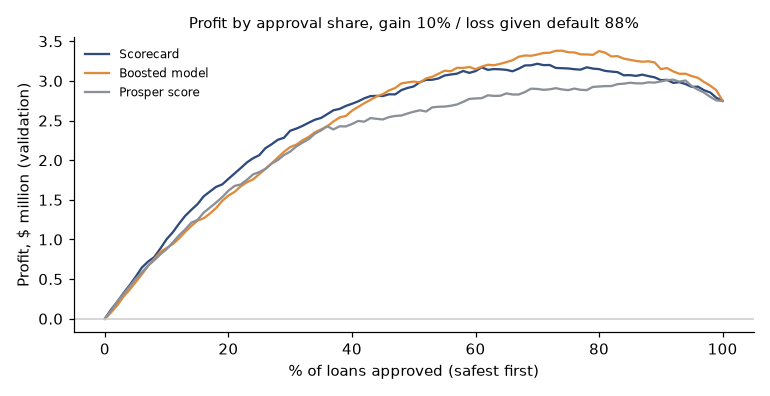
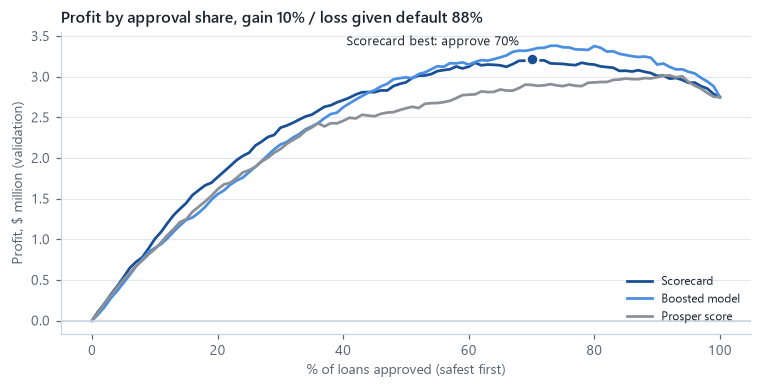
Blue theme for the site; refresh project figures

Changed region(s): [[0.0302, 0.0309, 0.9961, 0.9897], [0.0, 0.0619, 0.2717, 0.7423]]

diff --git a/style.css b/style.css
@@ -1,25 +1,39 @@
+/* Blue theme. Same palette as the charts: deep blue = main, mid blue = secondary, orange = "what I caught". */
 :root {
-  --bg: #faf8f4;
+  --bg: #f4f7fc;
   --surface: #ffffff;
-  --ink: #1c2430;
-  --muted: #5b6573;
-  --line: #e4dfd5;
-  --accent: #0f5c5c;
-  --accent-soft: #e3f0ee;
-  --warn: #8a4b12;
-  --warn-soft: #fbefe0;
+  --ink: #14213a;
+  --muted: #55627a;
+  --line: #d9e2ef;
+  --accent: #184f95;
+  --accent-strong: #0d366b;
+  --accent-soft: #e6effb;
+  --warn: #9a4310;
+  --warn-soft: #fdeee6;
+  --hero-from: #0d366b;
+  --hero-to: #184f95;
+  --hero-ink: #ffffff;
+  --hero-muted: #cfe0f7;
+  --hero-eyebrow: #9ec5f4;
+  --shadow: 0 1px 2px rgba(13, 54, 107, 0.06), 0 4px 14px rgba(13, 54, 107, 0.05);
   --serif: Georgia, "Iowan Old Style", "Times New Roman", serif;
   --sans: system-ui, -apple-system, "Segoe UI", Roboto, "Helvetica Neue", Arial, sans-serif;
 }
 @media (prefers-color-scheme: dark) {
   :root:not([data-theme="light"]) {
-    --bg: #12161c; --surface: #1a2029; --ink: #e8ebf0; --muted: #a2adbb; --line: #2b3441;
-    --accent: #6fc4bd; --accent-soft: #17302f; --warn: #e8b27a; --warn-soft: #2d2216;
+    --bg: #0b1220; --surface: #121b2e; --ink: #e8eefa; --muted: #9fb0c9; --line: #243350;
+    --accent: #6da7ec; --accent-strong: #9ec5f4; --accent-soft: #14233d;
+    --warn: #f2a67b; --warn-soft: #2b1d14;
+    --hero-from: #081a36; --hero-to: #123f7a;
+    --shadow: 0 1px 2px rgba(0, 0, 0, 0.35);
   }
 }
 :root[data-theme="dark"] {
-  --bg: #12161c; --surface: #1a2029; --ink: #e8ebf0; --muted: #a2adbb; --line: #2b3441;
-  --accent: #6fc4bd; --accent-soft: #17302f; --warn: #e8b27a; --warn-soft: #2d2216;
+  --bg: #0b1220; --surface: #121b2e; --ink: #e8eefa; --muted: #9fb0c9; --line: #243350;
+  --accent: #6da7ec; --accent-strong: #9ec5f4; --accent-soft: #14233d;
+  --warn: #f2a67b; --warn-soft: #2b1d14;
+  --hero-from: #081a36; --hero-to: #123f7a;
+  --shadow: 0 1px 2px rgba(0, 0, 0, 0.35);
 }
 
 * { box-sizing: border-box; }
@@ -34,74 +48,78 @@ a:focus-visible, button:focus-visible { outline: 3px solid var(--accent); outlin
 .wrap { max-width: 1040px; margin: 0 auto; padding: 0 16px; }
 
 /* header */
-header.site { border-bottom: 1px solid var(--line); background: var(--bg); position: sticky; top: 0; z-index: 10; }
+header.site { border-bottom: 1px solid var(--line); background: var(--surface); position: sticky; top: 0; z-index: 10; }
 header.site .wrap { display: flex; align-items: center; justify-content: space-between; gap: 16px; flex-wrap: wrap; padding-top: 12px; padding-bottom: 12px; }
-.brand { font-family: var(--serif); font-size: 1.15rem; font-weight: 700; color: var(--ink); text-decoration: none; }
+.brand { font-family: var(--serif); font-size: 1.15rem; font-weight: 700; color: var(--accent-strong); text-decoration: none; }
 nav a { margin-left: 18px; color: var(--muted); text-decoration: none; font-size: 0.95rem; }
-nav a:hover { color: var(--ink); }
+nav a:hover { color: var(--accent); }
 
-/* hero */
-.hero { padding: 72px 0 48px; }
-.eyebrow { text-transform: uppercase; letter-spacing: 0.08em; font-size: 0.8rem; color: var(--accent); font-weight: 700; margin: 0 0 12px; }
-h1 { font-family: var(--serif); font-size: clamp(2rem, 5vw, 3.1rem); line-height: 1.15; margin: 0 0 20px; max-width: 18em; }
-.lede { font-size: 1.15rem; color: var(--muted); max-width: 40em; margin: 0 0 28px; }
+/* hero: deep blue band */
+.hero { padding: 76px 0 56px; background: linear-gradient(135deg, var(--hero-from), var(--hero-to)); color: var(--hero-ink); }
+.eyebrow { text-transform: uppercase; letter-spacing: 0.08em; font-size: 0.8rem; color: var(--hero-eyebrow); font-weight: 700; margin: 0 0 12px; }
+h1 { font-family: var(--serif); font-size: clamp(2rem, 5vw, 3.1rem); line-height: 1.15; margin: 0 0 20px; max-width: 18em; color: var(--hero-ink); }
+.lede { font-size: 1.15rem; color: var(--hero-muted); max-width: 40em; margin: 0 0 28px; }
 .cta { display: flex; gap: 12px; flex-wrap: wrap; }
-.btn { display: inline-block; padding: 10px 18px; border-radius: 6px; font-weight: 600; text-decoration: none; font-size: 0.95rem; border: 1px solid var(--accent); }
-.btn.primary { background: var(--accent); color: var(--bg); }
-.btn.ghost { color: var(--accent); background: transparent; }
-.facts { display: flex; flex-wrap: wrap; gap: 8px 28px; margin: 36px 0 0; padding: 0; list-style: none; color: var(--muted); font-size: 0.95rem; }
-.facts b { color: var(--ink); }
+.btn { display: inline-block; padding: 10px 18px; border-radius: 6px; font-weight: 600; text-decoration: none; font-size: 0.95rem; border: 1px solid rgba(255, 255, 255, 0.7); color: var(--hero-ink); }
+.btn.primary { background: #ffffff; color: #0d366b; border-color: #ffffff; }
+.btn.ghost:hover, .btn.primary:hover { background: rgba(255, 255, 255, 0.92); color: #0d366b; }
+.hero a:focus-visible { outline-color: #ffffff; }
+.facts { display: flex; flex-wrap: wrap; gap: 8px 28px; margin: 36px 0 0; padding: 0; list-style: none; color: var(--hero-muted); font-size: 0.95rem; }
+.facts b { color: #ffffff; }
 
 /* sections */
-section { padding: 48px 0; border-top: 1px solid var(--line); }
-h2 { font-family: var(--serif); font-size: 1.8rem; margin: 0 0 8px; }
+section { padding: 52px 0; border-top: 1px solid var(--line); }
+.hero { border-top: 0; }
+h2 { font-family: var(--serif); font-size: 1.8rem; margin: 0 0 8px; color: var(--accent-strong); }
 .section-note { color: var(--muted); max-width: 44em; margin: 0 0 28px; }
 h3 { font-family: var(--serif); font-size: 1.2rem; line-height: 1.3; margin: 0 0 8px; }
 
 /* principles */
 .principles { display: grid; grid-template-columns: repeat(auto-fit, minmax(230px, 1fr)); gap: 16px; }
-.principle { background: var(--surface); border: 1px solid var(--line); border-radius: 8px; padding: 18px; }
+.principle { background: var(--surface); border: 1px solid var(--line); border-top: 3px solid var(--accent); border-radius: 8px; padding: 18px; box-shadow: var(--shadow); }
 .principle h3 { font-size: 1.05rem; }
 .principle p { margin: 0 0 10px; font-size: 0.95rem; }
-.principle .proof { color: var(--muted); font-size: 0.9rem; border-top: 1px dashed var(--line); padding-top: 10px; margin: 0; }
+.principle .proof { color: var(--muted); font-size: 0.9rem; border-top: 1px solid var(--line); padding-top: 10px; margin: 0; }
 
 /* project tracks */
 .track { margin: 40px 0 0; }
 .track h3.track-title { font-size: 0.85rem; text-transform: uppercase; letter-spacing: 0.08em; color: var(--accent); margin: 0 0 14px; font-family: var(--sans); }
 .cards { display: grid; grid-template-columns: repeat(auto-fit, minmax(440px, 1fr)); gap: 20px; }
-.card { background: var(--surface); border: 1px solid var(--line); border-radius: 10px; overflow: hidden; display: flex; flex-direction: column; }
-.card.featured { border-color: var(--accent); }
+.card { background: var(--surface); border: 1px solid var(--line); border-radius: 10px; overflow: hidden; display: flex; flex-direction: column; box-shadow: var(--shadow); }
+.card.featured { border-color: var(--accent); box-shadow: 0 0 0 1px var(--accent), var(--shadow); }
 .fig { background: #fff; border-bottom: 1px solid var(--line); aspect-ratio: 16 / 8; display: flex; align-items: center; justify-content: center; }
 .fig img { max-width: 100%; max-height: 100%; object-fit: contain; display: block; }
 .card .body { padding: 18px 20px 20px; display: flex; flex-direction: column; gap: 12px; flex: 1; }
 .label { font-size: 0.72rem; text-transform: uppercase; letter-spacing: 0.08em; font-weight: 700; color: var(--muted); display: block; margin-bottom: 2px; }
-.answer { background: var(--accent-soft); border-radius: 6px; padding: 10px 12px; font-size: 0.97rem; }
+.answer { background: var(--accent-soft); border-left: 3px solid var(--accent); border-radius: 6px; padding: 10px 12px; font-size: 0.97rem; }
 .answer .label { color: var(--accent); }
-.caught { background: var(--warn-soft); border-radius: 6px; padding: 10px 12px; font-size: 0.93rem; }
+.caught { background: var(--warn-soft); border-left: 3px solid #eb6834; border-radius: 6px; padding: 10px 12px; font-size: 0.93rem; }
 .caught .label { color: var(--warn); }
 .card p { margin: 0; }
 .tags { display: flex; flex-wrap: wrap; gap: 6px; margin: 0; padding: 0; list-style: none; }
-.tags li { font-size: 0.78rem; border: 1px solid var(--line); border-radius: 999px; padding: 2px 10px; color: var(--muted); }
+.tags li { font-size: 0.78rem; border: 1px solid var(--line); background: var(--bg); border-radius: 999px; padding: 2px 10px; color: var(--muted); }
 .links { display: flex; flex-wrap: wrap; gap: 6px 16px; margin-top: auto; font-size: 0.93rem; font-weight: 600; }
 .soon { color: var(--muted); font-weight: 400; }
 
 /* wrong list */
 .wrong { list-style: none; margin: 0; padding: 0; display: grid; gap: 12px; }
-.wrong li { background: var(--surface); border: 1px solid var(--line); border-left: 4px solid var(--warn); border-radius: 6px; padding: 12px 16px; font-size: 0.97rem; }
-.wrong b { color: var(--ink); }
+.wrong li { background: var(--surface); border: 1px solid var(--line); border-left: 4px solid #eb6834; border-radius: 6px; padding: 12px 16px; font-size: 0.97rem; box-shadow: var(--shadow); }
+.wrong b { color: var(--accent-strong); }
 .wrong span { color: var(--muted); }
 
 /* toolbox */
 .toolbox { display: grid; grid-template-columns: repeat(auto-fit, minmax(260px, 1fr)); gap: 16px; }
-.toolbox div { background: var(--surface); border: 1px solid var(--line); border-radius: 8px; padding: 16px 18px; }
-.toolbox h3 { font-size: 1rem; margin-bottom: 6px; }
+.toolbox div { background: var(--surface); border: 1px solid var(--line); border-radius: 8px; padding: 16px 18px; box-shadow: var(--shadow); }
+.toolbox h3 { font-size: 1rem; margin-bottom: 6px; color: var(--accent-strong); }
 .toolbox p { margin: 0; font-size: 0.95rem; color: var(--muted); }
 
-footer { border-top: 1px solid var(--line); padding: 32px 0 56px; color: var(--muted); font-size: 0.92rem; }
+footer { background: var(--accent-strong); color: #cfe0f7; padding: 36px 0 56px; font-size: 0.95rem; }
+footer a { color: #ffffff; }
+footer p { margin: 0 0 8px; }
 
 @media (max-width: 560px) {
   body { font-size: 16px; }
-  .hero { padding: 44px 0 32px; }
+  .hero { padding: 48px 0 36px; }
   .cards { grid-template-columns: 1fr; }
   nav a { margin-left: 12px; }
   .fig { aspect-ratio: 16 / 9; }

diff --git a/index.html b/index.html
@@ -23,7 +23,7 @@
 
 <main id="top">
 
-<section class="hero" style="border-top:0">
+<section class="hero">
   <div class="wrap">
     <p class="eyebrow">Data analyst &middot; banking, e-commerce and product research</p>
     <h1>I turn ambiguous questions into decisions you can defend.</h1>
@@ -160,7 +160,7 @@
       <div class="cards">
 
         <article class="card featured">
-          <div class="fig"><img src="assets/wombloom.png" alt="Chart of the stars gained or lost by review topic" loading="lazy"></div>
+          <div class="fig"><img src="assets/wombloom.png" alt="Chart of the stars gained or lost by review topic, with reliable measurements in blue and leads in orange" loading="lazy"></div>
           <div class="body">
             <div><h3>What should my pregnancy-journal app build first?</h3></div>
             <div class="answer"><span class="label">Answer</span>Fix trust problems first: reviews that mention ads, updates or bugs average <b>2.4 to 2.6 stars against 4.16 overall</b>. Journaling is the clearest opening but a thin one. Pricing, updates and ads stayed in the top three of the priority ranking in 84% to 99% of 5,000 random weightings.</div>
@@ -185,7 +185,7 @@
           <div class="fig"><img src="assets/hanoi.png" alt="Chart of how often each Hanoi district ranks first under random scoring weights" loading="lazy"></div>
           <div class="body">
             <div><h3>Where should a caf&eacute; brand open next in Hanoi?</h3></div>
-            <div class="answer"><span class="label">Answer</span>Thanh Xu&acirc;n, ranked first in <b>80% of 10,000 random weightings</b>, with &#272;&#7889;ng &#272;a as the lower-risk alternative. A one-day field count of five shortlisted blocks is the go/no-go test.</div>
+            <div class="answer"><span class="label">Answer</span>Thanh Xu&acirc;n, ranked first in <b>80% of 10,000 random weightings</b> (top three in 90%), with &#272;&#7889;ng &#272;a as the lower-risk alternative. A one-day field count of five shortlisted blocks is the go/no-go test.</div>
             <div class="caught"><span class="label">What I caught</span>OpenStreetMap appears to miss small independent caf&eacute;s outside the centre, so every supply gap is re-estimated on chain caf&eacute;s only, and the README says openly that the lead depends on one score component.</div>
             <ul class="tags"><li>Site selection</li><li>Count models</li><li>Sensitivity analysis</li></ul>
             <div class="links"><a href="https://github.com/chinph/Hanoi-Vietnam-Market-Research">Code and case study</a></div>
